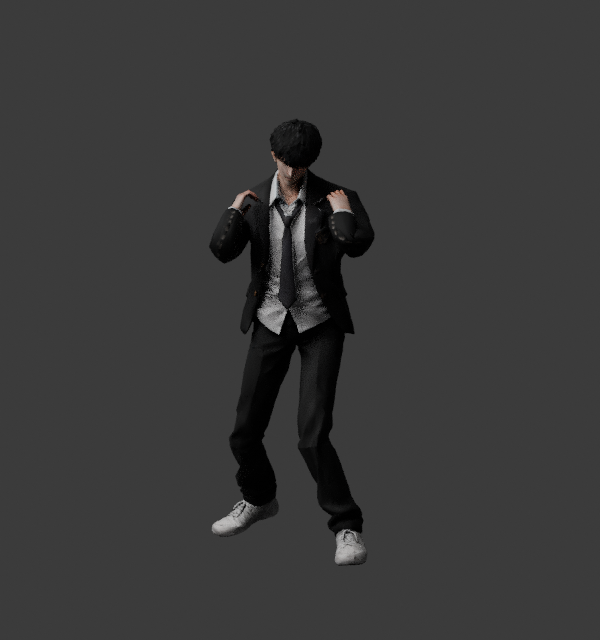
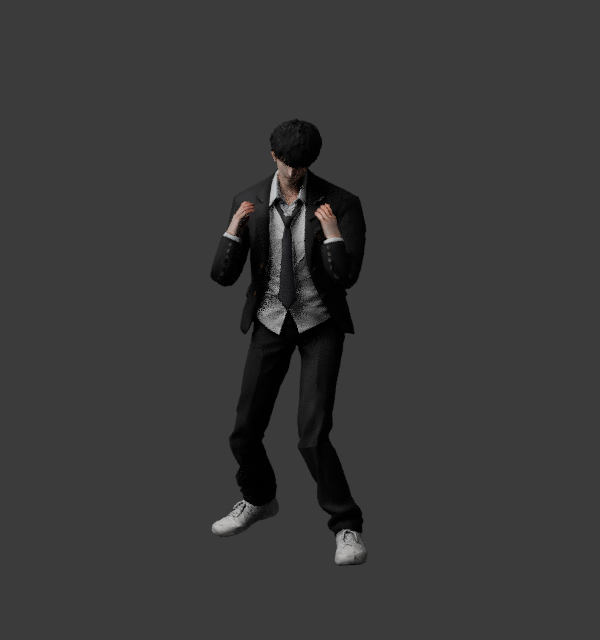
Follow head height with guard during torso counterbalance

Changed region(s): [[0.51, 0.2812, 0.63, 0.4688], [0.33, 0.2812, 0.45, 0.4688], [0.42, 0.375, 0.48, 0.5]]

diff --git a/Tools/Motion/verify_fighting_hook.py b/Tools/Motion/verify_fighting_hook.py
@@ -33,7 +33,7 @@ def pose(p):
  for n,deg in [('Spine',8*(1-ext)),('Chest',3*(1-ext))]:
   b=bones[n];b.rotation_quaternion=Quaternion(b.bone.matrix_local.to_quaternion().inverted()@Vector((1,0,0)),math.radians(deg))
  for side in ['Left','Right']:
-  sign=1 if side=='Left' else -1;names=[side+'UpperArm',side+'Forearm',side+'Hand'];a,b,c=[pos(n) for n in names];target=actor+yq@Vector((sign*.17,-.23,.60-drop));u=(b-a).length;l=(c-b).length;delta=target-a;d=max(abs(u-l)+.001,min(u+l-.001,delta.length));direction=delta.normalized();bend=yq@Vector((sign*.35,-.1,-1));pole=(bend-direction*bend.dot(direction)).normalized();along=(u*u+d*d-l*l)/(2*d);k=a+direction*along+pole*math.sqrt(max(0,u*u-along*along));rotate(names[0],(b-a).rotation_difference(k-a));b=pos(names[1]);c=pos(names[2]);rotate(names[1],(c-b).rotation_difference(a+direction*d-b))
+  sign=1 if side=='Left' else -1;names=[side+'UpperArm',side+'Forearm',side+'Hand'];a,b,c=[pos(n) for n in names];target=pos('Head')+yq@Vector((sign*.14,-.17,.06));u=(b-a).length;l=(c-b).length;delta=target-a;d=max(abs(u-l)+.001,min(u+l-.001,delta.length));direction=delta.normalized();bend=yq@Vector((sign*.35,-.1,-1));pole=(bend-direction*bend.dot(direction)).normalized();along=(u*u+d*d-l*l)/(2*d);k=a+direction*along+pole*math.sqrt(max(0,u*u-along*along));rotate(names[0],(b-a).rotation_difference(k-a));b=pos(names[1]);c=pos(names[2]);rotate(names[1],(c-b).rotation_difference(a+direction*d-b))
  for side in ['Left','Right']:
   b=bones[side+'Hand'];long=(bones[side+'Hand'].head-bones[side+'Forearm'].head).normalized();b.rotation_quaternion=Quaternion(b.bone.matrix_local.to_quaternion().inverted()@long,math.radians(40 if side=='Left' else -40))
  bpy.context.view_layer.update();left=home['Left'].copy();left.x*=2;left.y-=.20

diff --git a/Assets/Scripts/ImportedPlayerView.cs b/Assets/Scripts/ImportedPlayerView.cs
@@ -319,7 +319,7 @@ public sealed class ImportedPlayerView : MonoBehaviour
             string side = i == 0 ? "Left" : "Right";
             Transform upper = joints[side + "UpperArm"].Bone, elbow = joints[side + "Forearm"].Bone, hand = i == 0 ? leftHand : rightHand;
             float sign = Mathf.Sign((i == 0 ? leftFootHome : rightFootHome).x);
-            Vector3 target = actor.transform.position + model.rotation * new Vector3(sign * .17f, .60f - lastDrop, .23f);
+            Vector3 target = joints["Head"].Bone.position + model.rotation * new Vector3(sign * .14f, .06f, .17f);
             target = Vector3.Lerp(hand.position, target, guardWeight);
             Vector3 origin = upper.position, delta = target - origin;
             float a = Vector3.Distance(origin, elbow.position), b = Vector3.Distance(elbow.position, hand.position);
